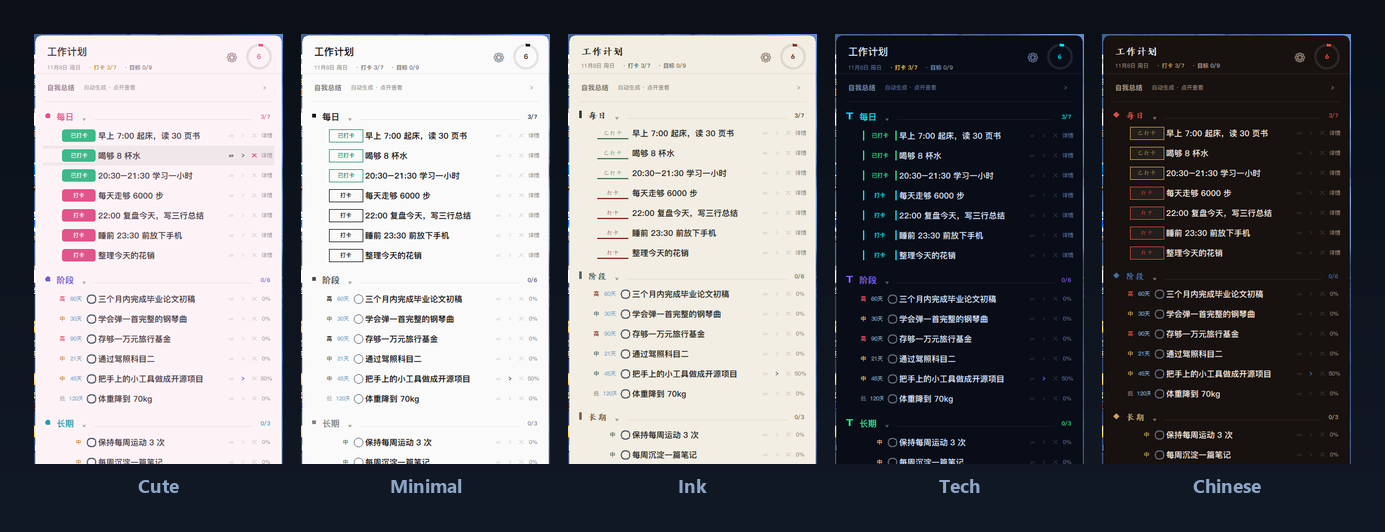
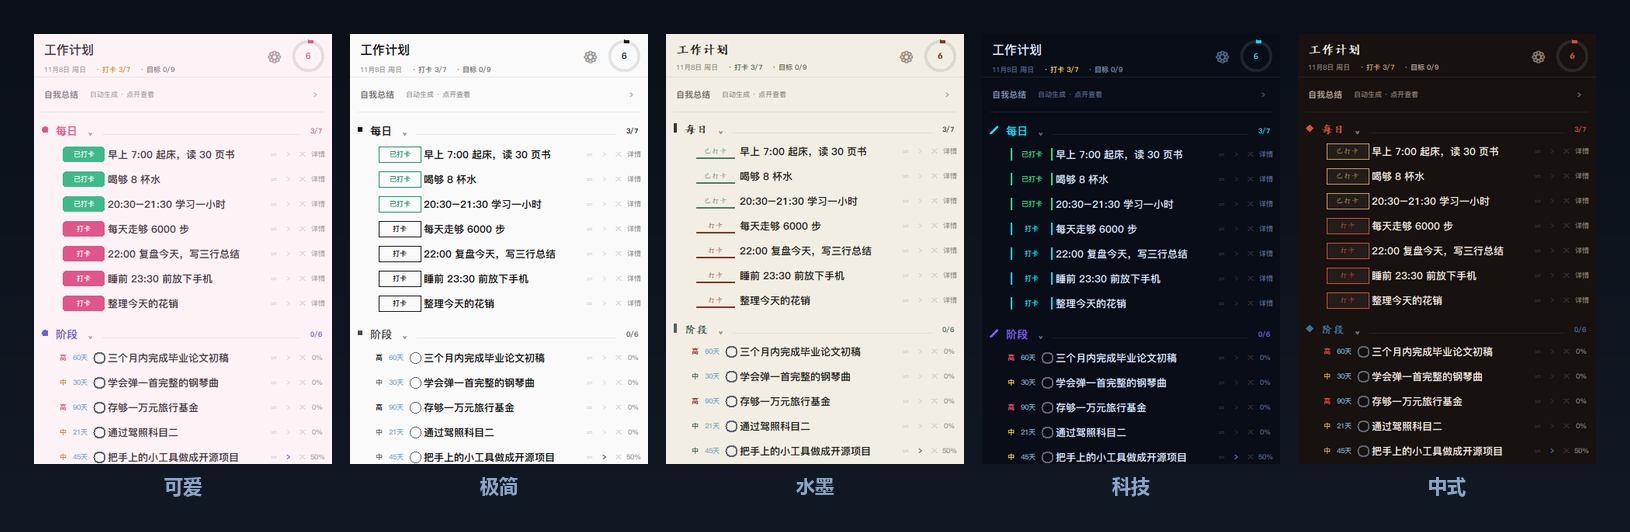
assets: localized demo images (English section uses English UI)
The English half of the README was showing Chinese UI and Chinese sample
plans - confusing for exactly the readers it targets.

- generate a second asset set: demo-en.gif, hero-en.png, history-en.png,
  plus per-theme shots in English
- README now points each language section at its own screenshots
- captions inside the GIF are localized too

Also fixes two capture bugs: the theme screenshots were grabbed before the
window had been resized (black band at the bottom), and the hero crop used a
hard-coded size.

diff --git a/README.md b/README.md
@@ -11,7 +11,7 @@ wallpaper, never covers your work.
 <img src="https://img.shields.io/badge/license-MIT-2ea44f" alt="MIT">
 <img src="https://img.shields.io/badge/UI-%E4%B8%AD%E6%96%87%20%2F%20English-e0558a" alt="Bilingual UI">
 
-<img src="docs/shots/demo.gif" width="366" alt="Check in, open the self-review, switch themes">
+<img src="docs/shots/demo-en.gif" width="366" alt="Check in, open the self-review, switch themes">
 
 *Every frame above is the real app — check in, self-review, then three of the five themes.*
 
@@ -68,7 +68,7 @@ percentage means something. Daily is a routine; Future is a parking lot.
 
 Every click is recorded, so a habit has a past — not just a checkbox.
 
-<img src="docs/shots/history.png" width="600" alt="History popup: check-ins, streak, 30-day rate and a day-by-day list">
+<img src="docs/shots/history-en.png" width="600" alt="History popup: check-ins, streak, 30-day rate and a day-by-day list">
 
 - **check-ins** — total days you did it
 - **streak** — consecutive days ending today (or yesterday, if today isn't done)
@@ -85,7 +85,7 @@ Five themes. Each one also swaps the **font, the button shape and the section
 marker** — a palette change alone would just look like the same app in a
 different colour.
 
-<img src="docs/shots/hero.png" width="920" alt="The same card in five themes: Cute, Minimal, Ink, Tech, Chinese">
+<img src="docs/shots/hero-en.png" width="920" alt="The same card in five themes: Cute, Minimal, Ink, Tech, Chinese">
 
 | Theme | Palette | Buttons | Markers |
 |---|---|---|---|
